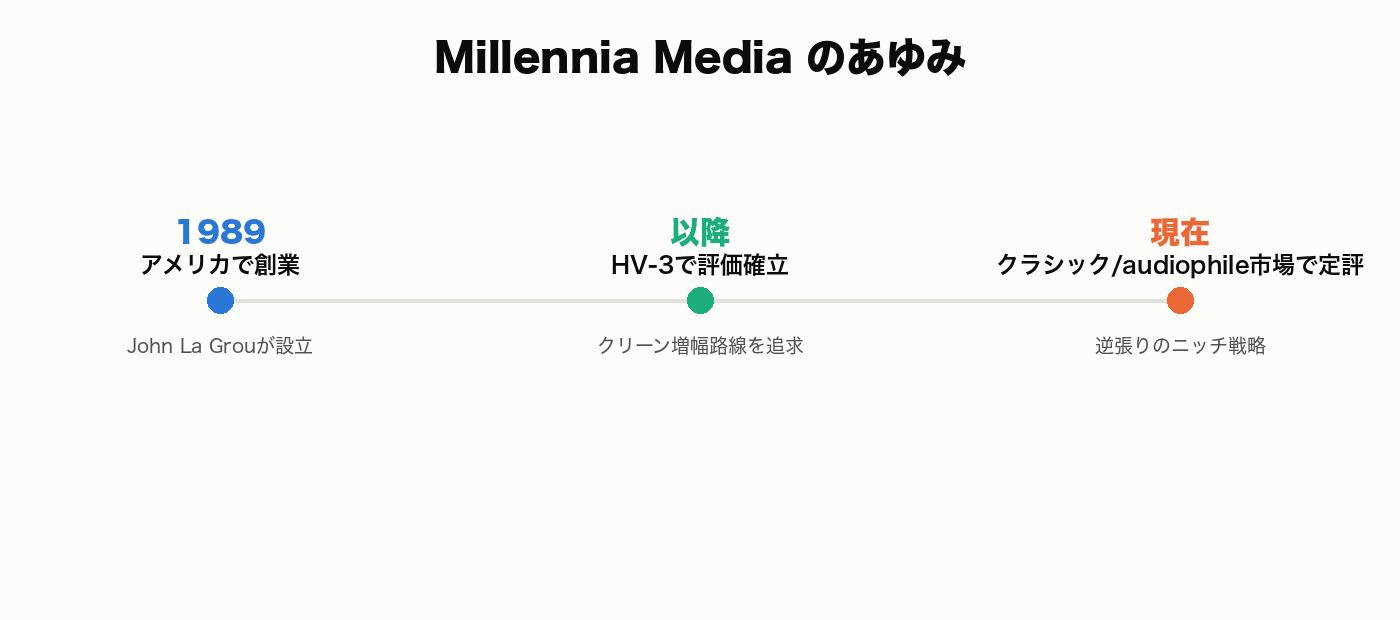
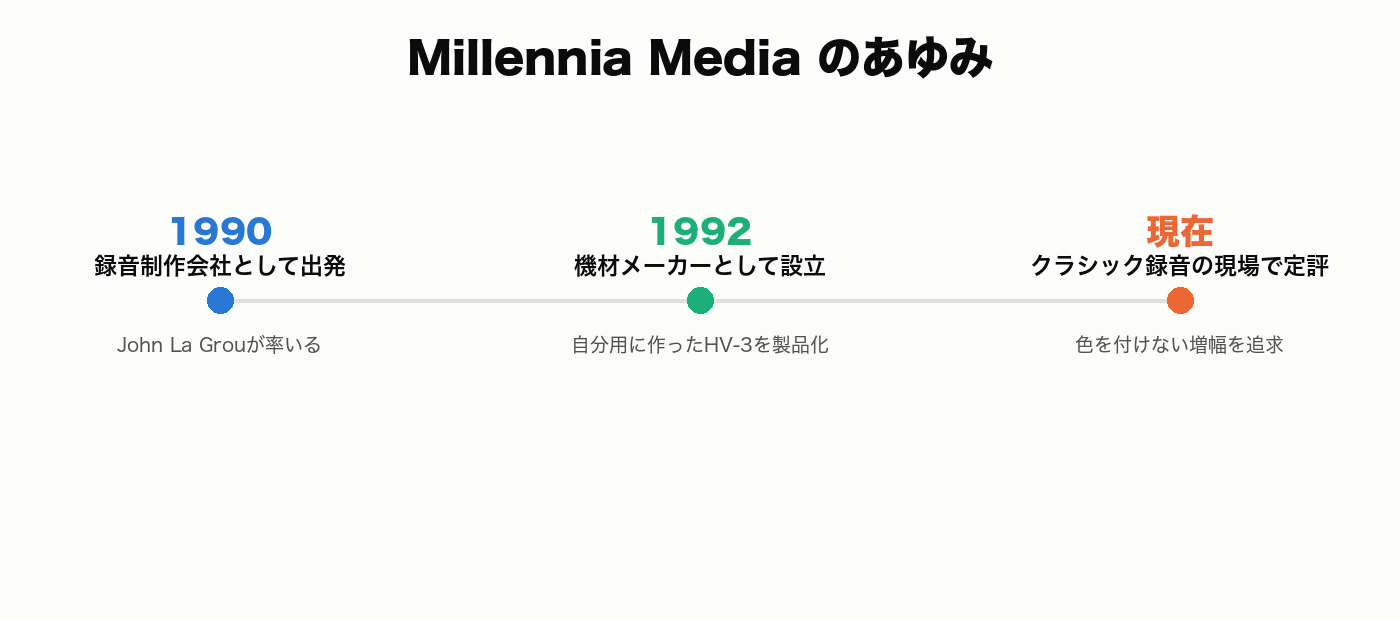
機材メーカーの歴史: Apogee・API・Antelope・Mogami/Canare・Chandler・Millenniaの年表画像を本文の年号に合わせて作り直す(画像を作るスクリプトも追加)

diff --git a/scripts/make_timeline.py b/scripts/make_timeline.py
@@ -1,0 +1,76 @@
+"""タイムライン画像(images/tl_*.png)を作り直すためのスクリプト。
+
+本文(courses/*.js)の年号を直したときに、画像側の年号もそろえるために使う。
+元の画像と同じ見た目(1400x620前後・ヒラギノ角ゴシック・青/緑/橙/紫の点)で描く。
+
+使い方: python3 scripts/make_timeline.py   (app/ フォルダで実行)
+作ったあとは README.md の手順どおり pngquant で圧縮する。
+"""
+from PIL import Image, ImageDraw, ImageFont
+
+FONT_DIR = "/System/Library/Fonts/"
+BG = (252, 252, 251)
+LINE = (225, 224, 218)
+COLORS = [(42, 120, 214), (28, 175, 123), (235, 104, 52), (75, 59, 168)]
+
+
+def font(weight, size):
+    return ImageFont.truetype(f"{FONT_DIR}ヒラギノ角ゴシック W{weight}.ttc", size)
+
+
+def draw_timeline(path, title, events):
+    """events: [(年号, 見出し, 補足), ...] 3〜4件"""
+    n = len(events)
+    width = 1400 if n <= 3 else 1660
+    xs = [220 + i * (width - 440) / (n - 1) for i in range(n)]
+    im = Image.new("RGB", (width, 620), BG)
+    d = ImageDraw.Draw(im)
+    d.text((width / 2, 57), title, font=font(8, 44), fill=(11, 11, 11), anchor="mm")
+    d.line([(xs[0], 300), (xs[-1], 300)], fill=LINE, width=4)
+    for i, (x, (year, label, sub)) in enumerate(zip(xs, events)):
+        c = COLORS[i % len(COLORS)]
+        d.ellipse([x - 13, 287, x + 13, 313], fill=c)
+        d.text((x, 231), year, font=font(8, 34), fill=c, anchor="mm")
+        d.text((x, 265), label, font=font(6, 23), fill=(11, 11, 11), anchor="mm")
+        d.text((x, 345), sub, font=font(4, 19), fill=(82, 82, 79), anchor="mm")
+    im.save(path)
+
+
+TIMELINES = {
+    # hardware_dtm.js の本文に合わせた内容(2026-11-27 見直し)
+    "images/tl_apogee.png": ("Apogee のあゆみ", [
+        ("1985", "アメリカで創業", "Bennett/Jackson/Heidelbergerの3人"),
+        ("1990年代", "UV22 技術で評価確立", "ディザリング技術の先駆け"),
+        ("2007", "Duet 発売", "Mac向けFireWire接続のI/F"),
+    ]),
+    "images/tl_api.png": ("API のあゆみ", [
+        ("1968", "アメリカで創業", "Saul Walker/Lou Lindauerら"),
+        ("1985年頃", "単体ラックLunchbox発売", "500シリーズの始まり"),
+        ("2006", "VPR Alliance発足", "他社も含めた統一基準へ"),
+    ]),
+    "images/tl_antelope.png": ("Antelope Audio のあゆみ", [
+        ("2005年頃", "Igor Levinが創業", "Aardvark(AardSync)出身"),
+        ("2011年頃", "I/F市場に本格参入", "クロック専業からの拡大"),
+        ("近年", "FPGAエフェクトモデリング", "ハードウェアDSPで展開"),
+    ]),
+    "images/tl_mogami_canare.png": ("Mogami / Canare のあゆみ", [
+        ("1957年頃", "Mogami 創業", "モガミ電線(長野県)"),
+        ("1970", "Canare 創業", "カナレ電気(名古屋)、1974年に株式会社化"),
+        ("以降", "世界標準ケーブルへ", "信頼性の積み重ねだけで"),
+    ]),
+    "images/tl_chandler.png": ("Chandler Limited のあゆみ", [
+        ("1999", "アメリカで創業", "Wade Goekeが自宅で開始"),
+        ("2004年頃", "EMI/Abbey Roadと公式提携", "歴史的回路の復刻ライセンス"),
+        ("現在", "TG/REDDシリーズ展開", "500シリーズにも参入"),
+    ]),
+    "images/tl_millennia.png": ("Millennia Media のあゆみ", [
+        ("1990", "録音制作会社として出発", "John La Grouが率いる"),
+        ("1992", "機材メーカーとして設立", "自分用に作ったHV-3を製品化"),
+        ("現在", "クラシック録音の現場で定評", "色を付けない増幅を追求"),
+    ]),
+}
+
+if __name__ == "__main__":
+    for p, (t, ev) in TIMELINES.items():
+        draw_timeline(p, t, ev)
+        print("wrote", p)

diff --git a/SERVICE_READINESS_CHECKLIST.md b/SERVICE_READINESS_CHECKLIST.md
@@ -55,6 +55,7 @@
 - [x] (2026-11-19対応) 年号・型番等の個別事実の裏取りを残りのコースで1コースずつ継続する(未実施: hardware_dtm(年号約68件)/daw_software(約164件)/instrument_makers(約240件)/money_case_studies(約182件)。plugin_makersは明示指示があるまで対象外。件数の多いコースは単元を区切って複数回に分ける。税金・保険料など毎年変わる数字は年1回の見直しも検討する。2027年分の確定申告が近づいたら(2027年秋ごろ)、青色申告特別控除の新区分を本文の主説明に格上げし、国税庁の公式資料で最終確認する)
 - [x] (2026-11-22対応) 年号・型番等の個別事実の裏取りを残りのコースで1コースずつ継続する(未実施: hardware_dtm後半(600行目以降のSSL以降の単元、年号約30件)/daw_software(約164件)/instrument_makers(約240件)/money_case_studies(約182件)。plugin_makersは明示指示があるまで対象外。件数の多いコースは単元を区切って複数回に分ける。税金・保険料など毎年変わる数字は年1回の見直しも検討する。2027年分の確定申告が近づいたら(2027年秋ごろ)、青色申告特別控除の新区分を本文の主説明に格上げし、国税庁の公式資料で最終確認する。今回はhardware_dtm後半のうちSony・Apogee・API・Antelope Audioの4単元を実施。Sony: MDR-CD900STを「放送・業務モニター用」からソニーとソニー・ミュージックスタジオ(CBS・ソニー信濃町スタジオ)の共同開発・1985年のMDR-CD900が下敷きに修正、インピーダンス64Ω→63Ω、MDR-7506の「同系統の派生機」を別系統(MDR-V6の流れ)に修正、型番「CD」の由来と冒頭のフック文も合わせて修正。Apogee: 創業者をBetty Bennett・Bruce Jackson・Christof Heidelbergerの3人(1985年12月)に具体化、Duet(2007年)を「USB」からFireWire接続に修正しUSBのDuet 2(2012年ごろ)・Duet 3を追記、「現在も独立系」を2025年11月のRockforce Tech Holding(Manley Labsの親会社)による買収に更新、UV22の「特許化」を根拠のあるUV-1000への搭載に差し替え、実在が曖昧な「Symphony ProToolsシステム」をSymphony I/O MkII(Pro Tools HD版)に修正。API: 設立を「1968年(資料により1969年)、Saul WalkerとLou Lindauerら」に、社名が放送局の自動化に由来するという根拠不明の説明を削除しApostolic Recording Studio向けコンソールがきっかけという説明に(クイズも)、550Aを4バンド→3バンド(4バンドは550B)に、500シリーズの成り立ちを1985年ごろのLunchbox発売・2006年のVPR Allianceに、電源を「±16V/±24V」→元の規格±16Vに、根拠不明の「赤いロゴ」を削除。Antelope: 設立を2007年→2005年ごろ(資料により2003年)に、「元衛星通信エンジニア」を根拠のあるAardvark/AardSyncの経歴に(クイズも)、拠点を「サンフランシスコ本社」→ソフィア本社・工場とカリフォルニアの拠点に、実在しない「Zen Q4」をZen Q Synergy Coreに、10M・Zen Tour等の価格帯を修正。タイムライン画像(tl_*.png)内の年号は画像のため未確認。残りは下の項目で継続)
 - [x] (2026-11-24対応) 年号・型番等の個別事実の裏取りを残りのコースで1コースずつ継続する(未実施: hardware_dtm後半の残り(Yamaha・Mogami/Canare・Chandler Limited・Millennia Mediaの4単元)/daw_software(約164件)/instrument_makers(約240件)/money_case_studies(約182件)。hardware_dtmのタイムライン画像(tl_*.png)に本文と食い違う年号がないかも確認する(特にtl_apogee・tl_api・tl_antelope)。plugin_makersは明示指示があるまで対象外。件数の多いコースは単元を区切って複数回に分ける。税金・保険料など毎年変わる数字は年1回の見直しも検討する。2027年分の確定申告が近づいたら(2027年秋ごろ)、青色申告特別控除の新区分を本文の主説明に格上げし、国税庁の公式資料で最終確認する。今回はhardware_dtm後半の残り4単元を実施し、本文の単元はこれで一巡。Yamaha: NS-10Mの発売時価格を「1本25,000円前後とされる」に具体化(Audio Heritage)、「家庭用で大ヒットにならなかった」を評論での評価が芳しくなかったとされる旨と累計30万台超のセールスに修正、生産終了を「2001年頃(要確認)」からウーファー用パルプの調達難による2001年の終了に確定、NS-10M Studioの根拠不明の価格を削除し変更点を説明。Mogami/Canare: 社名表記を「最上電線」からモガミ電線に、2015年に沖電線(OKIグループ)の子会社になった旨を追加(創業1957年は資料が少ないため「1950年代、1957年とする資料が多い」とぼかし)。Canareの創業を1953年から1970年(個人経営)・1974年株式会社設立に修正し、成り立ちを「工業用電線の総合メーカー」から配線工事業出身で1980年に放送用ケーブルへ集中した経緯に書き換え(クイズも)。根拠のない「Neglexのディスク型導体構造」を削除し、2534は4芯スターカッド、擦れノイズ対策は2524の導電性PVC層と修正(クイズも)。2549をギター用から2芯マイクケーブルに、スピーカー用とされていた2932(実際は多芯スネーク)を楽器用2524に差し替え。Neutrikの本社をスイスからリヒテンシュタインに修正(クイズも)、上場企業のカナレを「非公開企業」としていた記述を修正。furtherLearningのMogami Historyリンクがトップページ相当の内容しか表示しないため、2534の説明があるNeglex Quadページに差し替え(HTTP 200確認)。Chandler: 設立を1997年から1999年(ノースハリウッドの自宅)に、Abbey Road/EMIとの正式な提携を2004年ごろからと明記、TG1 Limiter(2001年)を追記、根拠不明の「API/Neveのリペアエンジニア出身」を公式記事・地元報道に基づく経歴に差し替え(クイズも)、「イギリスの放送機材」をEMIの自社スタジオ用機材に修正。Millennia: 設立を1989年から「1990年にクラシック音楽の制作会社として始まり、メーカーとしては1992年」に修正、創業動機を公式サイトの説明(オーケストラ録音のためにHV-3を自作し口コミで広まった)に書き換え。HV-3に存在しない「真空管/トランジスタ/ディスクリート切替」を削除し、トランスレスのソリッドステートである点と、真空管/半導体の切替はNSEQ-2・STT-1 OriginのTwin Topologyである点に修正(クイズ3問も)。製品リストをHV-3C(2ch)・HV-3D(4/8ch)に修正、TCL-2を真空管コンプからオプトコンプに修正、根拠の薄い価格帯は「要確認」に。La GrouがPOW-r Consortiumの創設者である点を豆知識に追加。node構文チェックOK)
-- [ ] 年号・型番等の個別事実の裏取りを残りのコースで1コースずつ継続する(未実施: daw_software(約164件)/instrument_makers(約240件)/money_case_studies(約182件、2026-11-24に追加された5単元を含む)。hardware_dtmは本文の単元が一巡したが、タイムライン画像(tl_*.png)に本文と食い違う年号がないか確認する(特にtl_apogee・tl_api・tl_antelope・tl_chandler・tl_millennia・tl_mogami_canare。今回Chandlerの設立を1999年、Millenniaを1990/1992年、Canareを1970/1974年に直したため画像側と食い違う可能性が高い)。plugin_makersは明示指示があるまで対象外。件数の多いコースは単元を区切って複数回に分ける。税金・保険料など毎年変わる数字は年1回の見直しも検討する。2027年分の確定申告が近づいたら(2027年秋ごろ)、青色申告特別控除の新区分を本文の主説明に格上げし、国税庁の公式資料で最終確認する)
+- [x] (2026-11-27対応) 年号・型番等の個別事実の裏取りを残りのコースで1コースずつ継続する(未実施: daw_software(約164件)/instrument_makers(約240件)/money_case_studies(約182件、2026-11-24に追加された5単元を含む)。hardware_dtmは本文の単元が一巡したが、タイムライン画像(tl_*.png)に本文と食い違う年号がないか確認する(特にtl_apogee・tl_api・tl_antelope・tl_chandler・tl_millennia・tl_mogami_canare。今回Chandlerの設立を1999年、Millenniaを1990/1992年、Canareを1970/1974年に直したため画像側と食い違う可能性が高い)。plugin_makersは明示指示があるまで対象外。件数の多いコースは単元を区切って複数回に分ける。税金・保険料など毎年変わる数字は年1回の見直しも検討する。2027年分の確定申告が近づいたら(2027年秋ごろ)、青色申告特別控除の新区分を本文の主説明に格上げし、国税庁の公式資料で最終確認する。今回はhardware_dtm後半6単元のタイムライン画像を確認し、6枚すべて本文と食い違っていたため作り直した。生成スクリプトが残っていなかったため、元画像と同じ寸法・配色・ヒラギノ角ゴシックで描く scripts/make_timeline.py を新規作成し、pngquantで圧縮。Apogee: 創業者を2人→本文どおり3人に、Duetを「Mac向けFireWire接続」に。API: 根拠のない「1968年頃 2520開発」「後年 500シリーズが業界標準に」を、本文どおり1985年頃のLunchbox発売・2006年のVPR Alliance発足に差し替え、創業者にLou Lindauerを追加。Antelope: 2007年→2005年頃、「元衛星通信エンジニア」→Aardvark(AardSync)出身、年代未確認の「2010年代 10Mアトミッククロック」を本文どおり「2011年頃 I/F市場に本格参入」に。Mogami/Canare: Canare 1953年→1970年(1974年に株式会社化・名古屋)、「最上電線」→モガミ電線、年順に並べ替え、Mogamiの1957年は「年頃」とぼかし。Chandler: 1997年→1999年、「以降」の提携を2004年頃に。Millennia: 1989年→1990年(録音制作会社として出発)/1992年(機材メーカーとして設立)の2段階に)
+- [ ] 年号・型番等の個別事実の裏取りを残りのコースで1コースずつ継続する(未実施: daw_software(約164件)/instrument_makers(約240件)/money_case_studies(約182件、2026-11-24に追加された5単元を含む)。hardware_dtm前半8枚のタイムライン画像(tl_rme・tl_genelec・tl_ams_neve・tl_shure・tl_focusrite・tl_ssl・tl_sony・tl_yamaha)も本文と食い違いがないか確認し、必要なら scripts/make_timeline.py にデータを足して作り直す(目視で気づいた点: tl_genelecが「イーサルミの町工場から」創業となっているが本文はヘルシンキで創業し後にイーサルミへ移転、tl_sonyが「元は放送/業務モニター用」「2010年代 生産終了騒動」となっているが本文は共同開発で生産終了騒動の記述は根拠未確認、tl_ams_neveの「1990年代 AMSと統合」は1992年の買収か要確認)。plugin_makersは明示指示があるまで対象外。件数の多いコースは単元を区切って複数回に分ける。税金・保険料など毎年変わる数字は年1回の見直しも検討する。2027年分の確定申告が近づいたら(2027年秋ごろ)、青色申告特別控除の新区分を本文の主説明に格上げし、国税庁の公式資料で最終確認する)
 - [x] (2026-11-01対応) mix_tips_practice(即断クイズ形式)のrenderTipがfurtherLearningを表示しない作りのため、他コースと同じ「もっと学ぶ」リンク欄を表示できるようにする(2026-10-20のcontentタスクで見つかった候補)
 - [x] (2026-08-22対応) 存在しないコースID/unit IDへアクセスした際のエラー表示を確認する(app.jsの`getCourse`/`getUnit`は不正なIDに`undefined`/`null`を返し、`renderGenre`/`renderCourse`/`renderLesson`/`renderQuiz`/`renderPatch`/`renderCase`/`renderTip`の全ルートが`if (!course || !unit) return renderHome();`パターンで例外なくホーム画面へフォールバックすることをコードレビューで確認。クラッシュ・白画面なし。ただし無言でホームへ戻るだけで「見つかりません」等の明示メッセージは出ないため、次ラウンドで軽量なトースト表示の要否を検討する)

diff --git a/AUTO_UPDATE_LOG.md b/AUTO_UPDATE_LOG.md
@@ -53,3 +53,4 @@
 - 2026-11-22 [polish] 信頼性 — 年号・数値の裏取りの7コース目の続きとしてhardware_dtm.js後半のSony・Apogee・API・Antelope Audioの4単元を実施。MDR-CD900STをソニーとソニー・ミュージックスタジオの共同開発(1985年のMDR-CD900が下敷き)に修正しインピーダンスを63Ωに、MDR-7506を別系統の製品に修正。Apogeeの創業者を3人に具体化、初代Duet(2007年)をFireWire接続に修正、2025年11月のRockforce Tech Holding(Manley Labsの親会社)による買収を反映。APIの設立を1968年(資料により1969年)・Walker/Lindauerに、根拠不明の社名由来と「赤いロゴ」を削除、550Aを3バンドに、500シリーズの成り立ち(1985年ごろLunchbox・2006年VPR Alliance)と電源±16Vを修正。Antelopeの設立を2005年ごろに、「元衛星通信エンジニア」をAardvark/AardSyncの経歴に、実在しない「Zen Q4」をZen Q Synergy Coreに修正し、価格帯も見直し(クイズ3問も修正)。node構文チェックOK、index.htmlの`?v=`も更新。SERVICE_READINESS_CHECKLIST.mdの該当項目を対応済みにし、残り4単元とタイムライン画像の確認を含む継続項目を追記
 - 2026-11-24 [polish] 信頼性 — 年号・数値の裏取りの7コース目の締めとしてhardware_dtm.js後半の残り4単元(Yamaha・Mogami/Canare・Chandler Limited・Millennia Media)を実施し、本文は一巡。NS-10Mの発売時価格(1本25,000円前後)と2001年の生産終了理由(コーン紙用パルプの調達難)を確定。Canareの創業を1953年→1970年(株式会社は1974年)に、成り立ちを配線工事業出身に修正、Mogamiを「モガミ電線」・2015年から沖電線の子会社に。根拠のない「Neglexのディスク型導体」を削除し、2549(マイク用)・2524(楽器用)・2932の型番の用途違いを修正、Neutrikの本社をリヒテンシュタインに修正。Chandlerの設立を1997年→1999年、Abbey Roadとの提携は2004年ごろからに、根拠不明の創業者経歴を差し替え。Millenniaの設立を1989年→1990年(制作会社)/1992年(メーカー)に、HV-3に存在しない真空管モード切替を削除しTwin Topology(NSEQ-2等)と区別、TCL-2をオプトコンプに修正。クイズ計8問を修正、Mogamiの「さらに学ぶ」リンクを内容のあるページに差し替え。node構文チェックOK、index.htmlの`?v=`も更新。今日すでに別作業で配線パズル・お金のケーススタディに10単元が追加されていたためcontentではなくpolishを選択(その10単元の追加はこのログに未記載)
 - 2026-11-25 [content] music_business_money — 単元数最少(8単元)のコースに9単元目「YouTubeで曲が使われたときのお金 — 包括許諾とContent ID」を追加(管理団体と動画サービスの包括許諾/CD音源は原盤側の許諾が別に必要/Content IDのブロック・収益化・追跡/独占的権利が登録の前提で非独占素材や制作用ループは対象外/BGM納品時の取り決めの5セクション+クイズ6問)。2008年の最初の契約と2023年2月のContent ID本格活用はYouTube公式ブログ、対応の種類と登録資格はYouTubeヘルプ、原盤の扱いと作家本人への申し立てはNexToneのFAQで確認。furtherLearningに4件(curlでHTTP 200を確認)。第8単元の締めのセリフを次単元への導入に変更。コース説明文・README.mdの単元数(music_business_money 8→9、あわせて別作業で増えていたgear_patch_practice 155→174・money_case_studies 82→94を実数に修正)、index.htmlの`?v=`を更新。node構文チェックOK
+- 2026-11-27 [polish] 信頼性 — hardware_dtm後半6単元のタイムライン画像(tl_apogee・tl_api・tl_antelope・tl_mogami_canare・tl_chandler・tl_millennia)を本文の年号に合わせて作り直した(Canare 1953→1970年、Chandler 1997→1999年、Millennia 1989→1990/1992年、Antelope 2007→2005年頃、APIの根拠のない年表をLunchbox(1985年頃)・VPR Alliance(2006年)に差し替え、Apogeeの創業者を3人に等)。生成スクリプトが無かったため元画像と同じ寸法・配色で描く scripts/make_timeline.py を新規作成。今日の別セッションで画像生成とチェックリスト更新まで済んで未コミットだったものを、本文との照合(長野/名古屋・Igor Levin・Wade Goeke・Lunchbox等)と6枚の目視確認(文字のはみ出しなし)をしてから仕上げた。前半8枚の画像確認はSERVICE_READINESS_CHECKLIST.mdの継続項目に追記済み
